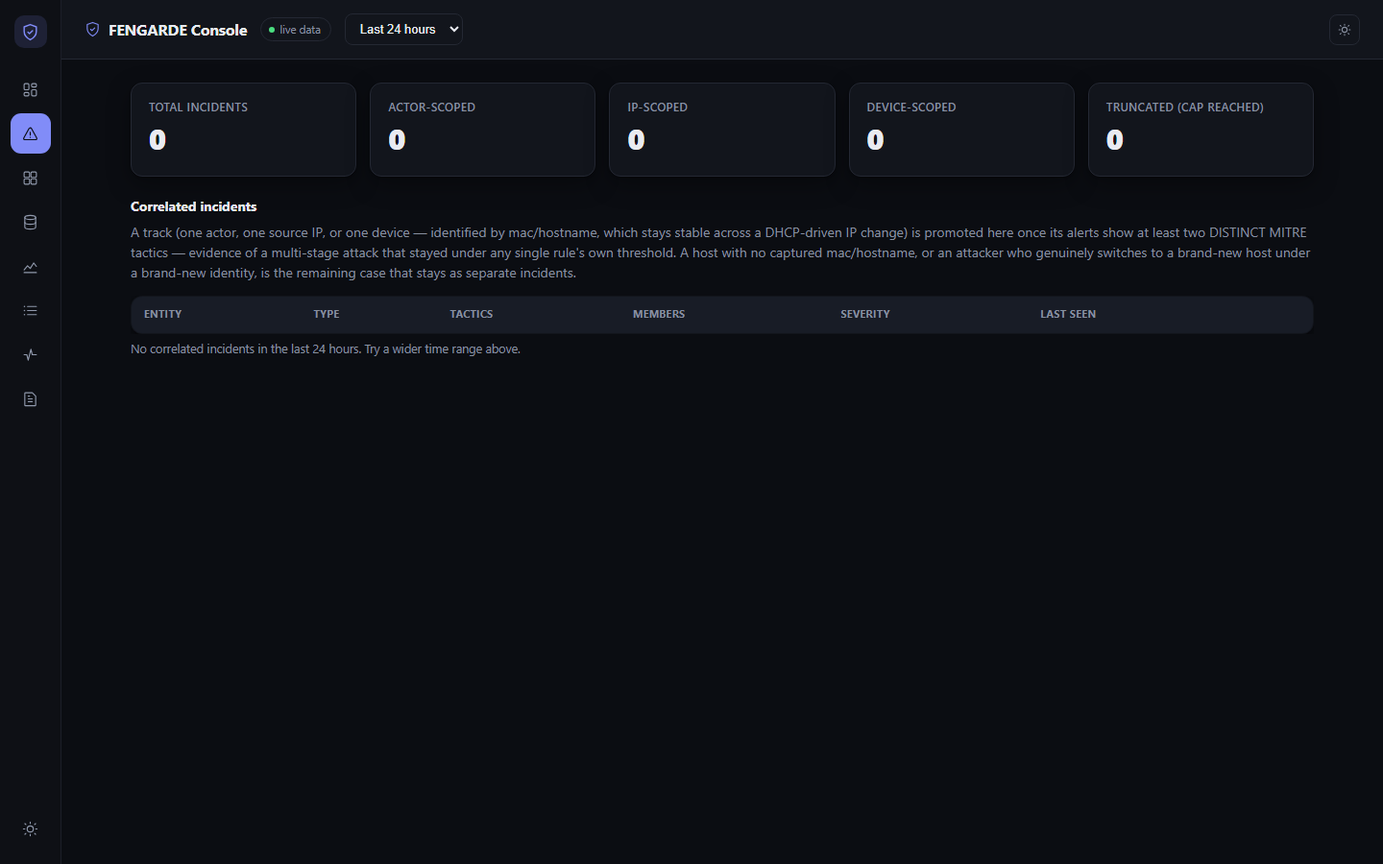
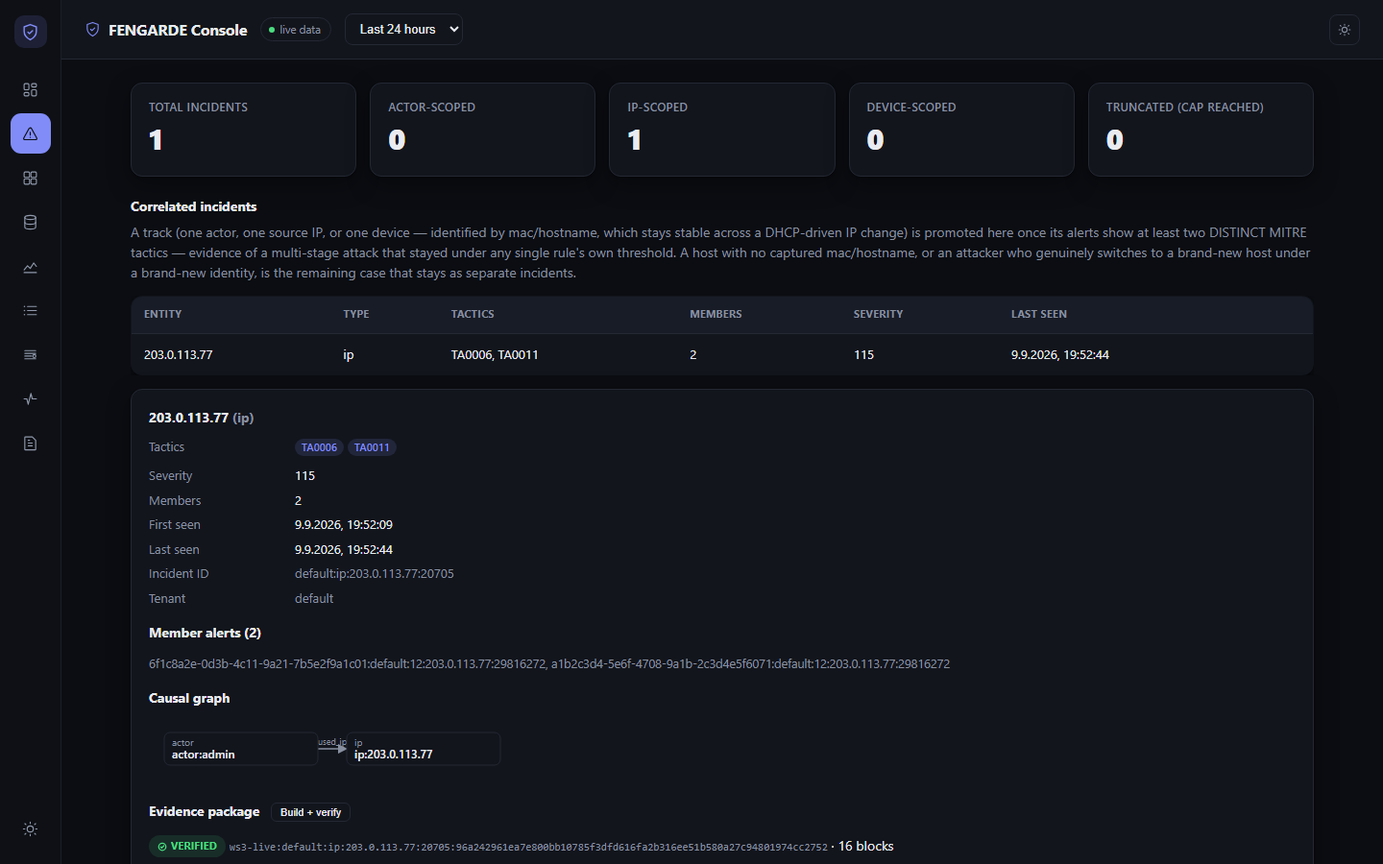
docs: close Phase 5 doc debt -- SSOT/README/CHANGELOG account + fresh live screenshots
SSOT.md had zero mention of Phase 5 (items 1-7, two code-review rounds)
despite it shipping on this branch -- added the full account to \$1/\$2.
README's architecture diagram still claimed incident.graph/entity.updates
had no consumer; "What's real" had no Phase 5 rows. CHANGELOG's
[Unreleased] was empty.

docs/index.html (GitHub Pages tour) screenshots were 2026-08-20/26,
predating 4 shipped roadmap phases. Seeded the live stack with a real
2-tactic incident (brute-force + DNS-exfil from one IP), re-captured all
8 dashboard views off it, and replaced the stale "0 correlated incidents"
empty-state shot with the real causal graph + verified evidence package --
the actual Phase 5 payoff. Updated every card's alt-text/note to match the
real numbers in the new captures, generalized one hardcoded dead-letter
count so it can't go stale the same way again, and fixed the WS-9 "not yet
surfaced in the console" line now that Phase 5 surfaces it.

diff --git a/docs/index.html b/docs/index.html
@@ -311,7 +311,7 @@ review, the verdict, DESIGN.md, and every shipping raster carrying its provenanc
       <p>This dashboard — read-only over HTTP</p></div>
     <div class="stage"><div class="no">09</div>
       <div class="stage-head"><div class="icn"><svg viewBox="0 0 24 24" fill="none" stroke="currentColor" stroke-linecap="round" stroke-linejoin="round"><circle cx="6" cy="18" r="2.4"/><circle cx="18" cy="18" r="2.4"/><circle cx="12" cy="6" r="2.4"/><path d="M12 8.4V13M8.4 16.7L10.7 14.5M15.6 16.7L13.3 14.5"/></svg></div><h3>Resolve</h3></div>
-      <p>Deterministic entity IDs off the same alert stream, alongside Correlate — not yet surfaced in the console (API/bus only today)</p></div>
+      <p>Deterministic entity IDs off the same alert stream, alongside Correlate — surfaced in the console as of Phase 5 (PR #92, unmerged): an incident's causal graph nodes carry entity type/value/label directly, and <code class="mono">GET /entities/{id}</code> serves the resolved record</p></div>
   </div>
 </section>
 
@@ -331,7 +331,7 @@ review, the verdict, DESIGN.md, and every shipping raster carrying its provenanc
         data-img="img/global.png"
         data-alt="FENGARDE Overview: stat cards, system posture, top sources, and a live alert table with MITRE tags and severity pills"
         data-tag="WS-3 · WS-4 · WS-5"
-        data-note="$ curl /api/alerts <b>&rarr; 200</b> &mdash; 50 real alerts, live pipeline connected">
+        data-note="$ curl /api/alerts <b>&rarr; 200</b> &mdash; real alerts, live pipeline connected">
         <div class="item-body">
         <div class="no">01 / Overview</div><h3>Live triage, MITRE-tagged, AI-assisted</h3>
         <p>Real alerts with real severity, a MITRE ATT&amp;CK chip pulled straight off the firing rule, and an
@@ -339,14 +339,14 @@ review, the verdict, DESIGN.md, and every shipping raster carrying its provenanc
         <span class="tag">WS-3 · WS-4 · WS-5</span>
         </div>
         <div class="mob-shot"><img loading="lazy" alt="FENGARDE Overview: stat cards, system posture, top sources, and a live alert table with MITRE tags and severity pills"></div>
-        <div class="mob-note">$ curl /api/alerts <b>→ 200</b> — 50 real alerts, live pipeline connected</div>
+        <div class="mob-note">$ curl /api/alerts <b>→ 200</b> — real alerts, live pipeline connected</div>
       </div>
 
       <div class="showcase-item"
         data-img="img/coverage.png"
-        data-alt="FENGARDE MITRE ATT&CK coverage heatmap by tactic and technique, plus a table of all 28 detection rules with sector, level, score weight, stateful, and enabled columns"
+        data-alt="FENGARDE MITRE ATT&CK coverage heatmap by tactic and technique, plus a table of all 29 detection rules with sector, level, score weight, stateful, and enabled columns"
         data-tag="WS-4"
-        data-note="28 rules loaded <b>&middot;</b> 96% carry a real technique mapping">
+        data-note="29 rules loaded <b>&middot;</b> 97% carry a real technique mapping">
         <div class="item-body">
         <div class="no">02 / Coverage</div><h3>MITRE ATT&amp;CK, measured not asserted</h3>
         <p>One cell per rule that actually carries a technique tag, shaded by real fired-alert counts. The
@@ -354,8 +354,8 @@ review, the verdict, DESIGN.md, and every shipping raster carrying its provenanc
           per tenant.</p>
         <span class="tag">WS-4</span>
         </div>
-        <div class="mob-shot"><img loading="lazy" alt="FENGARDE MITRE ATT&CK coverage heatmap by tactic and technique, plus a table of all 28 detection rules with sector, level, score weight, stateful, and enabled columns"></div>
-        <div class="mob-note">28 rules loaded <b>·</b> 96% carry a real technique mapping</div>
+        <div class="mob-shot"><img loading="lazy" alt="FENGARDE MITRE ATT&CK coverage heatmap by tactic and technique, plus a table of all 29 detection rules with sector, level, score weight, stateful, and enabled columns"></div>
+        <div class="mob-note">29 rules loaded <b>·</b> 97% carry a real technique mapping</div>
       </div>
 
       <div class="showcase-item"
@@ -375,9 +375,9 @@ review, the verdict, DESIGN.md, and every shipping raster carrying its provenanc
 
       <div class="showcase-item"
         data-img="img/events.png"
-        data-alt="FENGARDE raw event browser showing normalized OCSF events with human-readable class names like Authentication and Network Activity, plus activity, status, source, actor, and sector"
+        data-alt="FENGARDE raw event browser showing normalized OCSF DNS / HTTP Activity (4002) events from a live DNS-exfil burst, with a human-readable class name instead of a bare class_uid, plus activity, status, source, actor, and sector"
         data-tag="WS-2"
-        data-note="Authentication (3002) <b>&middot;</b> Network Activity (4001) &mdash; named, not numbered">
+        data-note="DNS / HTTP Activity (4002) <b>&middot;</b> class name, not a bare class_uid">
         <div class="item-body">
         <div class="no">04 / Events</div><h3>Every event, not just the ones that fired</h3>
         <p>The full pre-detection OCSF stream — what WS-2 actually normalized, before any rule ever saw it.
@@ -385,38 +385,38 @@ review, the verdict, DESIGN.md, and every shipping raster carrying its provenanc
           guessed.</p>
         <span class="tag">WS-2</span>
         </div>
-        <div class="mob-shot"><img loading="lazy" alt="FENGARDE raw event browser showing normalized OCSF events with human-readable class names like Authentication and Network Activity, plus activity, status, source, actor, and sector"></div>
-        <div class="mob-note">Authentication (3002) <b>·</b> Network Activity (4001) — named, not numbered</div>
+        <div class="mob-shot"><img loading="lazy" alt="FENGARDE raw event browser showing normalized OCSF DNS / HTTP Activity (4002) events from a live DNS-exfil burst, with a human-readable class name instead of a bare class_uid, plus activity, status, source, actor, and sector"></div>
+        <div class="mob-note">DNS / HTTP Activity (4002) <b>·</b> class name, not a bare class_uid</div>
       </div>
 
       <div class="showcase-item"
         data-img="img/sources.png"
-        data-alt="FENGARDE Sources view showing real event counts by parser: Linux Ssh with 99 events, Cisco Asa with 1"
+        data-alt="FENGARDE Sources view showing real event counts by parser: Dns Query with 45 events, Linux Ssh with 12, Cisco Asa with 1"
         data-tag="WS-2"
-        data-note="linux_ssh: 99 <b>&middot;</b> cisco_asa: 1 &mdash; real siem.source_type counts">
+        data-note="dns_query: 45 <b>&middot;</b> linux_ssh: 12 &mdash; real siem.source_type counts">
         <div class="item-body">
         <div class="no">05 / Sources</div><h3>Which parser actually did the work</h3>
         <p>A real per-parser event count, derived from whatever's already indexed — no separate breakdown
           endpoint exists, so this reads the same data the Events tab does and counts it honestly.</p>
         <span class="tag">WS-2</span>
         </div>
-        <div class="mob-shot"><img loading="lazy" alt="FENGARDE Sources view showing real event counts by parser: Linux Ssh with 99 events, Cisco Asa with 1"></div>
-        <div class="mob-note">linux_ssh: 99 <b>·</b> cisco_asa: 1 — real siem.source_type counts</div>
+        <div class="mob-shot"><img loading="lazy" alt="FENGARDE Sources view showing real event counts by parser: Dns Query with 45 events, Linux Ssh with 12, Cisco Asa with 1"></div>
+        <div class="mob-note">dns_query: 45 <b>·</b> linux_ssh: 12 — real siem.source_type counts</div>
       </div>
 
       <div class="showcase-item"
         data-img="img/ops.png"
-        data-alt="FENGARDE Ops view showing per-service health cards for five workstreams with real acked event counts, a dead-letter depth of 24 on WS-2, and correlator track counts"
+        data-alt="FENGARDE Ops view showing per-service health cards for WS-1 through WS-3, WS-4/5/8, with real acked event counts, a dead-letter depth on WS-2's raw.events, and WS-8 correlator active-track/promotion counts"
         data-tag="WS-1 · 2 · 3 · 4 · 8"
-        data-note="raw.events.deadletter_depth <b>&rarr; 24</b> &mdash; shown, not swept under the rug">
+        data-note="raw.events.deadletter_depth <b>&rarr; 8</b> &mdash; shown, not swept under the rug">
         <div class="item-body">
         <div class="no">06 / Ops</div><h3>Health, including the parts that aren't healthy</h3>
         <p>Per-topic acked/failed/dead-lettered counts read live off every workstream's own metrics endpoint.
-          Nothing is hidden — including a real 24-message backlog sitting in one service's dead-letter queue.</p>
+          Nothing is hidden — including a real dead-letter backlog sitting in one service's queue.</p>
         <span class="tag">WS-1 · 2 · 3 · 4 · 8</span>
         </div>
-        <div class="mob-shot"><img loading="lazy" alt="FENGARDE Ops view showing per-service health cards for five workstreams with real acked event counts, a dead-letter depth of 24 on WS-2, and correlator track counts"></div>
-        <div class="mob-note">raw.events.deadletter_depth <b>→ 24</b> — shown, not swept under the rug</div>
+        <div class="mob-shot"><img loading="lazy" alt="FENGARDE Ops view showing per-service health cards for WS-1 through WS-3, WS-4/5/8, with real acked event counts, a dead-letter depth on WS-2's raw.events, and WS-8 correlator active-track/promotion counts"></div>
+        <div class="mob-note">raw.events.deadletter_depth <b>→ 8</b> — shown, not swept under the rug</div>
       </div>
 
       <div class="showcase-item"
@@ -438,18 +438,21 @@ review, the verdict, DESIGN.md, and every shipping raster carrying its provenanc
 
       <div class="showcase-item"
         data-img="img/incidents.png"
-        data-alt="FENGARDE Incidents view with zero correlated incidents and an honest empty-state message explaining why, rather than a blank table"
-        data-tag="WS-8"
-        data-note="0 incidents <b>&middot;</b> the honest answer, not a hidden failure">
+        data-alt="FENGARDE incident detail for a real ip-scoped incident spanning two MITRE tactics, showing its causal graph (actor:admin used_ip ip:203.0.113.77) and a verified 16-block evidence package"
+        data-tag="WS-8 · 3 · 9"
+        data-note="2 tactics, 1 incident <b>&middot;</b> causal graph + verified evidence, both real">
         <div class="item-body">
         <div class="no">08 / Incidents</div><h3>Multi-stage attacks, correlated across alerts</h3>
         <p>A single actor, IP, or device that crosses two distinct MITRE tactics gets promoted from N separate
           alerts into one incident — evidence of an attack that stayed under any single rule's own threshold.
-          Empty here on purpose: no attacker in this run ever crossed that bar.</p>
-        <span class="tag">WS-8</span>
+          This run: a brute-force burst (TA0006) and a DNS-exfil burst (TA0011) from one IP, merged. Phase 5
+          (PR #92) adds the causal graph — a real DAG edge derived from the two alerts' own MITRE tags, not a
+          fabricated line — and a build-on-click evidence package: a Merkle hash-chain over the incident's
+          alerts/events, verified before it ever renders <code class="mono">VERIFIED</code>.</p>
+        <span class="tag">WS-8 · 3 · 9</span>
         </div>
-        <div class="mob-shot"><img loading="lazy" alt="FENGARDE Incidents view with zero correlated incidents and an honest empty-state message explaining why, rather than a blank table"></div>
-        <div class="mob-note">0 incidents <b>·</b> the honest answer, not a hidden failure</div>
+        <div class="mob-shot"><img loading="lazy" alt="FENGARDE incident detail for a real ip-scoped incident spanning two MITRE tactics, showing its causal graph (actor:admin used_ip ip:203.0.113.77) and a verified 16-block evidence package"></div>
+        <div class="mob-note">2 tactics, 1 incident <b>·</b> causal graph + verified evidence, both real</div>
       </div>
     </div>
 

diff --git a/SSOT.md b/SSOT.md
@@ -14,6 +14,7 @@ Update this file whenever status changes; it's a living index, not an archive.
 
 | Fact | Value |
 |---|---|
+| **Phase 5 — analyst read path for the entity/causal/evidence plane, items 1-7 SHIPPED to `feat/phase-4` (2026-09-04/05), PR #92 OPEN not yet merged** | Closes the gap the v0.7.0-v0.10.0 tag row below documents honestly: WS-8's `incident.graph` v2 and WS-9's `entity.updates` were **produced since Phase 2/3 with zero consumers** — WS-3 only reaper-trimmed the streams, no storage, no read route, no dashboard surface. **Item 1-2**: `services/ws3-indexer` now persists both to flat last-write-wins indices (`entities`/`incident-graphs`, tenant-suffixed — each republish carries full current state, not a delta, unlike the day-bucketed alert/event indices) and serves `GET /entities/{id}`, `GET /incidents/{id}/graph`, `GET /incidents/{id}/evidence` (the latter is `evidence_package.py`'s (WP-3-B) first real HTTP consumer — built the package on demand, runs `verify_evidence_package()` **before** any 200, a failure is 409 with reasons, never a silent unverified serve); all three tenant-gated. **Item 3**: `services/ws7-dashboard` incident detail now renders the causal DAG as a from-scratch layered-layout SVG (no chart library — depth = 1 + max(predecessor depth), defensively iteration-capped against a malformed/cyclic graph) and an evidence panel (build-on-click, distinguishes verified/tampered-409/unavailable) alongside the existing member-alert list, not replacing it — closing the exact "not yet surfaced in the console" gap `docs/index.html`'s WS-9 card used to name honestly. **Item 4**: the dashboard's asset drill-in now calls the long-dead `GET /assets/{mac}` contract route (existed, never wired) instead of only ever rendering the possibly-stale `/assets?limit=200` list snapshot — shows the list snapshot immediately (no blank flash), refreshes to the live single-device read, visibly labels which one is on screen. **Item 5**: WS-4 detection now actually reads `contracts/ot-points/*.yml`'s `points[].criticality` (shipped 2026-08-28, explicitly noted then as "no parser, rule, or loader reads this block today") into the exposure-scoring block `contracts/scoring.yaml` had scaffolded inert since WP-2-F — only `asset_criticality` is wired (`internet_exposure`/`tenant_tier` stay inert, no config source exists for either yet, documented explicitly so `enabled: true` isn't misread as activating all three). **Item 6**: `tools/generate_trend_viewer.py` renders `eval/trend.jsonl`'s real nightly rows (detection-quality + AI-to-OT twin scorecard, newest-first) into a committed static `eval/trend_viewer.html` — the internal viewer the roadmap's item 6 asked for; the public benchmark-artifact track (roadmap item 8) is explicitly out of scope here. **Item 7**: a genuinely separate incident-level NIS2 draft seam — `report_id: "{incident_id}:incident-report"`, never `to_reporting_payload()` (that seam stays deliberately alert-scoped per its own frozen contract) — `nis2_template.py` orders the causal narrative by `incident.graph`'s own edge `ts_ms`, joining each edge back to the alert that evidenced it via `event_id`, falling back to alert-arrival order only when no graph exists; same never-fabricate `[ANALYST MUST PROVIDE]` discipline as the alert-level template. **Verification, every item**: `bash run_all_tests.sh` ALL TESTS PASS, ruff clean, mypy clean; items 3/4's dashboard claims and item 3's nginx sub-path routing were browser/live-verified, not just reasoned about (real SVG rendered from a real 3-node/2-edge graph, real nginx:alpine `-t` syntax check, not assumed). **Code review, round-tripped twice**: `/code-review high` found 10 issues (fixed, `7142370`) — a real WS-4 co-firing scoring bug (`exposure_gate` on one rule alongside an ungated rule with the same weight/level fully hid the ungated rule's exposure score instead of only excluding the gated one), an async dashboard state race (a fast incident-deselect-reselect after an in-flight `getIncidentGraph()` could render the wrong incident's graph), `find_alerts()` missing from the storage-adapter interface, a stale `contracts/opensearch-mappings/reports.json` missing the new incident-report fields, and 6 more; `/code-review max` found 3 more (fixed, `b457ef2`) — `MemoryStore.find_alerts()` didn't dedup an id landing in two daily buckets, `OpenSearchStore.find_alerts()`'s dedup-to-newest ordering was unverified against this codebase's actual write patterns (verified NOT reachable given `main.py`'s drift-check-and-skip logic), and the same co-firing scoring formula needed a second, more general fix for a **mixed** gated+ungated co-fire (previous fix only handled the uniform case). A round-3 CI-only mypy `no-redef` failure (`cddebfb`, caught by Autofix, not local `mypy <file>` — CI's whole-package `mypy tools --explicit-package-bases` scope a single-file local run doesn't reproduce) is fixed and pushed. **PR #92 status**: all 32 CI checks pass; `reviewDecision: REVIEW_REQUIRED`, `mergeStateStatus: BLOCKED` — this repo's branch-protection requires 1 approving review and GitHub refuses self-approval from the PR's own author, same gate every prior PR on this repo (#79, #81, ...) has hit; owner review/merge is the only remaining step. **Self-caught doc debt, closed in this same pass**: this row itself didn't exist until now — `SSOT.md` had zero mentions of Phase 5 despite 7 shipped items and 2 review rounds landing on this branch; `README.md`'s architecture diagram still said `incident.graph`/`entity.updates` were "produced, no consumer wired yet"/"self-consumed only today" (both now false as of item 1-2) and its "What's real" table had no Phase 5 rows at all; the `docs/index.html` GitHub Pages tour's screenshots and WS-9 "not yet surfaced" copy predated all of Phase 2 through Phase 5. Fixed in the same pass — see the rows immediately below and README/docs/index.html's own history. |
 | `v0.7.0`-`v0.10.0` TAGGED (2026-09-04) — one tag per shipped roadmap phase since `v0.6.0`, closing the same "no release boundary" gap that motivated `v0.6.0` | Owner asked for tags marking each completed phase. Cut on the real phase-completion merge commits (not HEAD): `v0.7.0`=`61ec767` (Phase 0+1), `v0.8.0`=`0198134` (Phase 2), `v0.9.0`=`c0d7c2e` (Phase 3), `v0.9.1`=`0512041` (Phase 3.5), `v0.10.0`=`e68fa2d` (Phase 4). Pushed; `release.yml` did not auto-fire for any of them despite matching `tags: ["v*"]` — verified live on GitHub's own Actions page ("no runs yet"), root cause not isolated (token has `workflow` scope, no tag-protection/rulesets block it). Added a `workflow_dispatch` fallback to `release.yml` so a release can still be cut on demand, and fixed a real gap found while reading that file: the Docker image-build list never gained `ws9-resolver` when Phase 2 added it as the 9th workstream — every release build since would have silently shipped 8 of 9 images. `CHANGELOG.md`'s single `[Unreleased]` block (everything since `v0.6.0`) split into the matching 5 version sections, content verified byte-identical (sorted diff) before the split, not just re-typed. See PR #92. |
 | **Phase 4 — adversarial system-level validation, WP-4-A SHIPPED (2026-09-03, branch `feat/phase-4`, built on Phase 3.5/PR #90)** | `eval/adversarial/` — the three-layer mutation engine the forward-roadmap's Phase 4 specifies. **Layer A (deterministic + BLOCKING)** — `mutate.py` (8 composable axes — prompt/tool/identity/credential/timing/network/protocol/telemetry, 36 catalogue entries incl. 3 cross-axis compositions, same-seed → byte-identical catalogue/variants) + `layer_a.py` (every mutation replayed through the REAL WS-2→WS-4→WS-8 path and graded on the roadmap's three criteria: detection retained **and** chain fidelity retained **and** FCR unchanged; a mutation that keeps the alert but breaks the causal join is recorded `causal_join_broken` and counts AGAINST robustness — never folded into a pass). **Measured (seed 7, harness-measured): `mutation_robustness = 0.6111` (22/36 pass)**; per-axis: identity 1.0 / timing 1.0 / network 0.75 / protocol 0.667 / tool 0.667 / credential 0.5 / telemetry 0.5 / composition 0.333 / **prompt 0.4 — six of ten prompt evasions (whitespace, Cyrillic homoglyphs, equivalent phrasing, language switch, URL-encode, base64-wrap) defeat the bounded ASCII injection regex: a REAL, measured coverage gap, exactly what Phase 4 exists to surface**. `segment_ips` (and comp-3 `actor_split+segment_ips`) is the loader-bearing causal-join-break constructor: detection retained, fidelity 0.6→0.2, FCR 1.0→0.5, graded FAILURE — the roadmap verify's "a mutation preserving the alert but breaking the causal join reported as a failure". Acceptance `test_layer_a.py` proves determinism byte-identically across two full runs, sensitivity both ways, the join-break-not-pass rule, and the **weakened-rule drop** (a never-matching copy of `agent_prompt_injection_indicator.yml` stops firing while stock fires — the lane is sensitive to rule weakening). **Layer B (curated corpus, deterministic)** — `corpus_b.py`: 8 curated adversarial cases replayed through the real path; all 6 hard positives fired their expected rules (plain/delimited injection, destructive, credential scan, egress, unauthorized Modbus write), 1 documented homoglyph evasion reported not hidden, 1 no-URL negative control stayed silent; the WS-8 leg feeds all alerts into ONE real Correlator and asserts the deliberate shared-attacker merge (c06+c07) happens while NO incident spans two corpus groups. **Layer C (nightly adaptive LLM adversary, NEVER blocking)** — `adversary_c.py` + `.github/workflows/nightly-adversary.yml`: composes cross-axis mutations via the real local LLM (`llm_adapter`), grades each through Layer A's real grader, records seed+producer+cases for reproducibility; deterministic `--dry-run` stub when no Ollama; stochastic output is kept OUT of the blocking gate by construction (the workflow never fails on grades). **Scorecard wiring** — `eval/twin/report.py` `mutation_robustness` now reads the deterministic `matrix.latest.json` artifact (gitignored, same convention as `report.latest.json`) with per-axis context + documented null-reason when the lane hasn't run. **Also fixed while landing this**: `report._incident_membership_grade`'s early-return omitted `cross_step_rule_co_location` → a mutation that legitimately killed all detection KeyError'd the WHOLE grade path (the exact interesting case). Gate: `run_all_tests.sh` stanzas added (mutate selfcheck → Layer A matrix → Layer B corpus → Layer A acceptance, ordered BEFORE the twin scorecard smoke so `mutation_robustness` populates); `make adversarial` target; `ruff check` clean on touched files. Full gate re-run **ALL TESTS PASS** exit 0. |
 | **Phase 3.5 — operational outcome metrics on the twin, WP-3.5-A SHIPPED (2026-09-03, PR #90 on `feat/phase-3.5`, after Phase 3/PR #89 merged `c0d7c2e`)** | `eval/twin/report.py` now measures the roadmap's Phase 3.5 metric set on the REAL WS-8 artifacts, all `basis: harness-measured` (WP-1-G `baseline.json` stays frozen; `delta_vs_baseline` reports n/a for the previously-null keys — the honest encoding of "null before, real now"): **alert_reduction_ratio = 0.7143** (7 raw WS-4 alerts → 2 WS-8 incidents — 71% of raw alert volume absorbed by correlation); **false_correlation_rate = 1.0** (2/2 oracle-DECLARED forbidden relationships, `allowed: false` in `oracle.yaml`, joined by a real v2 graph edge — the honest signal that the entity-presence join cannot discriminate direction; reported raw with `forbidden_denominator` + per-pair breakdown, never hidden); **incident_reconstruction_time_ms ≈ 0.8–5.9** (REAL wall-clock to build the REAL WS-3 evidence package from the chain's real incident/alerts/events/graph — 14 blocks, hash-chain `verified: true`; wall-clock is machine-load dependent and informational, the same carve-out `date` enjoys — the committed `report.json` records 0.7687 ms as of the 2026-09-03 review-fix regeneration below (was 5.9224 ms at original ship — expected to differ run-to-run, per the field's own carve-out); `package_id`/`block_count` are deterministic, asserted separately); **mtti = 360.0 s** (scripted analyst walk over the REAL incident graph: open + 7 members + 2 entities + 1 edge + assemble = 12 steps × the documented 30 s/step model — step counts are the measured quantity; seconds is the documented conversion until a design partner supplies wall-clock); **severity confusion matrix** = 6 correct / 0 over / 0 under / 1 unexpected (the fired rule the oracle does not declare at its step, surfaced not folded). **MTTR stays an honest null** with `context.mttr_null_reason` — the twin harness has no remediation/closure event (no triage-API status transition is replayed; incidents never close in the sim), and the roadmap's own MTTR cell requires "triage-API status transitions on real replays", a live-replay measure a twin cannot fabricate. Mutation-sound acceptance test `eval/twin/test_phase3_5.py` (independent references + 2 mutation probes: neutered forbidden-denominator → FCR disagrees; forced verifier failure → `verified` flips False) wired into `run_all_tests.sh`; WP-3-C `test_chain_fidelity.py` untouched apart from the documented wall-clock carve-out in its (d) determinism check. Gate: `run_all_tests.sh` **ALL TESTS PASS** exit 0; ruff clean on touched files. Cross-repo note in `fengarde-sec/docs/STATUS.md` §0. **Independent-review fix round (2026-09-03)**: a fresh-session code review of this package found and fixed 14 defects — `_investigation_walk` was scoped to the UNION of every promoted incident's graph edges instead of the one picked incident's own graph (now shares a `_pick_full_coverage_incident` helper with `_evidence_reconstruction` and reads that incident's real `nodes`/`edges`); `_evidence_reconstruction`'s `events` list wasn't filtered to the picked incident's `member_alert_ids` (unlike its `alerts` list); `alert_reduction_ratio` had a falsy-zero bug nulling a well-defined `1.0` whenever zero incidents promoted (now denominated on the same canonical `alerts_total` `context.alert_count` uses, closing a two-independently-sourced-counts drift risk too); `_LEVEL_RANK` silently ranked an unrecognized severity level as informational instead of flagging it (`unrecognized-level` verdict added); the forbidden-relationship denominator checked only the to-step despite its comment claiming both-steps parity with the allowed loop (now actually both); two of `test_phase3_5.py`'s six checks weren't independent of the function under test (now cross-check against `incident_summary`/`incident_reconstruction`/top-level `context.alert_count`) and a brittle hardcoded `0.7143` was removed from check (a)'s pass/fail; `api_round_trips` and the severity `matrix` breakdown were untested (now asserted); plus a redundant incident-graph refetch+deepcopy, a hand-rolled median swapped for `statistics.median`, a stale docstring, and literal backslashes in `oracle.yaml`'s block-scalar text. None of the fixes changed seed 7's harness-measured numbers (chain_fidelity/false_correlation_rate/alert_reduction_ratio/mtti/severity tally all byte-identical) — only the informational wall-clock reconstruction time differs, as it always does run-to-run. `run_all_tests.sh` **ALL TESTS PASS** exit 0 after the fix. |
@@ -149,6 +150,11 @@ those words get reused loosely across specs written weeks apart.
 | F1-F6 adversarial bug-hunt fixes (`6e3fbe4`) actually close the described holes | **Proven, zero-infra** | Each fix's regression test independently confirmed via `git apply -R`-then-run-then-restore against the fix's own diff: every test genuinely fails without its fix and passes with it restored (not just "passes today"). Full suite + ruff clean with all six applied together. Not yet run against a live Docker/Redis/OpenSearch stack — same standing zero-infra-only caveat as the rest of this table. |
 | Cross-alert correlation (a low-and-slow multi-stage attacker who paces each technique under its own rule's threshold gets ONE aggregated "incident," not 27 isolated tripwires) | **Shipped + Proven live (2026-08-18, WS-8); pivot-correlation closed 2026-08-19** | See §1's dedicated WS-8 row for the full account: new `services/ws8-correlation`, per-entity (never-merged) tracks promoted on ≥2 distinct MITRE tactics, live-verified end-to-end on Docker Desktop (a real `incidents-*` document with both member alerts and both tactics; a positive IP-track control; a live negative check confirming an allowlisted shared-infrastructure IP produces no incident). Superseded the design-only status this row carried since the 2026-07-29 audit. **Pivot-correlation (2026-08-19)**: a third `device:{mac-or-hostname}` track closes the "actor moving to a new IP" case that's actually evidenced without inference (see §1's 2026-08-19 row) — an authenticated actor pivoting IP was already correlated via the pre-existing `actor:` track (no IP in its key); the residual gap was activity with no captured actor identity, now closed for hosts whose mac/hostname is parser-populated. Zero-infra proven (3 new contract scenarios + 1 sensitivity check). The narrower residual (no mac/hostname captured at all, or a genuine switch to a brand-new physical host under a brand-new identity) remains a deliberate, named accepted limitation — not silently claimed closed. **Historical framing kept for context (2026-07-29 audit, before this shipped):** the adversarial design review correctly identified this as the top remaining detection-architecture gap: every rule evaluates independently against its own window, `Scorer.score()` only combines rules matching the SAME event, and nothing accumulates risk for one actor/asset across a longer horizon (hours-to-days). Building that for real — a second-pass consumer reading the `alerts` topic, a new rolling-risk window keyed by actor/asset over hours-to-days, a new "incident" alert shape, its own scoring model, dashboard surface, and test suite — is a genuine multi-day feature, not a safe same-pass fix; rushing it risks exactly the kind of new correlation-window bug (wrong horizon, unbounded state growth, false-merged incidents) this project's own fail-closed philosophy exists to avoid. **Safe scoped improvement shipped instead**: `list_alerts()` (`services/ws3-indexer/storage/{memory,opensearch}.py`, wired through `GET /api/v1/alerts?actor=&src_ip=`) now supports exact-match filtering by `actor.user.name`/`src_endpoint.ip` across tenants and the full retention window, so an analyst CAN pull every alert for one actor/IP across time today — the manual version of the query a future automated aggregator would run itself. Tested zero-infra (`test_list_alerts_correlation.py`, `test_api_v1.py::test_list_alerts_actor_src_ip_filters`); backward compatible (new kwargs, only sent when actually requested, so a pre-existing `StorageAdapter` subclass with the old 3-parameter signature is unaffected). The full aggregation engine remains open — treat it as the next roadmap item, per the review's own recommendation, ahead of adding more atomic rules. **Scoped (design only, no code) 2026-08-05**: `fengarde-sec/docs/2026-08-05-cross-alert-correlation-scope.md` — proposed shape (reuse `window.py`'s primitive with a longer horizon, a new `incidents-*` index, additive-field discipline) and the 5 failure modes any implementation must cover (false-merge on NAT/DHCP reuse, tenant isolation, unbounded state growth, chief among them). Kept out of this repo's own `docs/superpowers/specs/` per the 2026-07-31 public-doc-policy `.gitignore` rule (a forward-looking roadmap scope, not a keep-public decision-rationale doc) — same category as the HA design doc, same repo it now lives in. |
 | 2026-08-06 hardening pass (PR #54) — feature/behavior claims, zero-infra-or-one-container proven | **Proven (zero-infra) + a few one-container live checks; the failover-dependent items remain CLAIM until a live kill-test** | See `docs/reviews/implementation_report_2026-08-06.md` §Phase 5 for the review that found the regressions below and `983efc7`/PR #54 for the fixes. Concretely: **(a)** HA `BUS_BACKEND=redis-sentinel` now wires the distributed window counter (and `Sentinel.master_for()` re-resolves the current master on reconnect — ~~**code-correct, not re-proven by a live primary-kill in this pass**; the earlier live failover proof was on the bus layer only~~ **PROVEN LIVE 2026-08-11**: `make ha-verify` → `tools/sentinel_failover_live.py` drives `services/ws4-detection/test_window_sentinel_failover_live.py`, which builds the counter client exactly as `main()`'s HA branch does and holds ONE `master_for()` client across a real `docker kill` of the primary. That single-client lifetime is the point — the defect class is a client pinned to a demoted master that answers `READONLY` forever while health checks stay green, and a fresh client built after the failover would resolve the new master trivially and prove nothing. Live result: master moved 172.28.0.11 → 172.28.0.12, the long-lived client followed the promotion, and the pre-failover window state survived (count 5 → 6, asserted as a VALUE — a promoted replica that had not replicated the window would answer writes happily while having silently lost the count)); **(b)** Redis sessions are HMAC-signed and the `redis` backend fails loud without `FENGARDE_SESSION_SECRET` — **live-verified against a real Redis container** (ctor-refuses-without-secret, signed-row-resolves, unsigned-row-rejected, two-clients-share-secret); **(c)** `FENGARDE_REQUIRE_AUTH` refuses boot with an incomplete auth surface; **(d)** MFA/TOTP is opt-in per-user and login gates on `totp_code` when active — **backward-compatible when disabled**; enable/verify require the acting user's current password (reauth) — ~~**flow tested zero-infra, not a live browser/login e2e**~~ **PROVEN LIVE 2026-08-11, and it found a production defect the zero-infra tests could not see.** `services/ws3-indexer/test_mfa_live_e2e.py` drives real HTTP against the deployed handler inside the ws3 container: login → `/auth/mfa/enable` → `/auth/mfa/verify` → password-only login REFUSED → wrong code refused → password+code accepted. **The defect:** `shared/users.py` reached the TOTP primitive by walking `parent.parent / "ws6-inventory"`, which resolves in a source checkout but NOT in any deployed image — ws3-indexer's Dockerfile copies `services/shared`, never `ws6-inventory`. The import failed, the `except` silently set `_TOTP_AVAILABLE = False`, and in the shipped container `provision_totp()` raised while `verify_totp()` rejected EVERY code. MFA was **inert in production while green in CI**, because in a checkout the path resolves fine. Fixed by moving the primitive to `services/shared/mfa.py` (ws6 never imported it — its own INTERFACE.md said "hosted here, NOT wired into this service's own auth"), and the degrade is no longer silent: it now emits a `RuntimeWarning` naming the consequence. The e2e treats `_TOTP_AVAILABLE == False` as a FAILURE, never a skip, so this cannot regress quietly again; **(e)** OpenSearch write-failover round-robins across a comma-separated `OPENSEARCH_URL` and the HA profile now points ws3 at all 3 nodes — ~~**node-rotation unit-tested, node-death failover not re-run live**~~ **node-death failover PROVEN LIVE 2026-08-11**: `services/ws3-indexer/storage/test_opensearch_ha_failover_live.py` against the real 3-node HA cluster — baseline write, `docker kill siem-store-ha-1`, confirmed the node stopped answering, post-kill write succeeded via round-robin to a survivor, node restored. Run with `OPENSEARCH_URL` naming all 3 nodes (host-published as 9201/9202/9203 under the HA profile); **(f)** the E1 audit log records login/triage/report and is admin-scoped, append-only, capacity-capped, fail-open — **zero-infra tested**; **(g)** the UDP syslog deterministic_id regression was reverted (FIX 21 — window-counter member-dedup had silently under-counted N repeated identical lines); **(h)** per-source syslog `/metrics`, dashboard saved-searches/dark-mode/lifecycle, 6-parser timeutil migration, CI gates (live-Redis session+window jobs, OpenSearch CI job, devkit-feeder pip-audit/SBOM coverage, Dockerfile `pip install` fail-closed) — all zero-infra tested. Full `run_all_tests.sh` + ruff + mypy green at merge. |
+| Phase 5 read-plane routes (`GET /entities/{id}`, `GET /incidents/{id}/graph`, `GET /incidents/{id}/evidence`) actually serve real persisted state, tenant-isolated, evidence verify-before-serve | **Proven (zero-infra), shipped 2026-09-04, PR #92 (not yet merged)** | `services/ws3-indexer/test_phase5_read_path.py` (wired). `router.py` recognizes `incident.graph`/`entity.updates` payloads by shape and routes them to flat last-write-wins indices; `main.py` added both to the real consumed `TOPICS` list (were reaper-only before). The evidence route mutation-verifies its own 409: forcing `verify_evidence_package()` to fail returns 409 with real reasons, restoring it returns 200 again — never a silently-unverified serve. Cross-tenant 404s confirmed live (a different-tenant RBAC session cannot fetch another tenant's entity/graph/evidence). `test_route_decomposition.py`'s frozen pre-refactor baseline stays untouched; new routes checked via a separate `ROUTES_ADDED_SINCE_REFACTOR` list so the historical-proof test can't be defeated by growing it. |
+| Dashboard incident detail renders the real causal DAG + evidence package, not a flat id list | **Proven (browser-verified live), shipped 2026-09-04, PR #92 (not yet merged)** | `services/ws7-dashboard/index.html` + `test_phase5_incident_graph_evidence.py`. `renderCausalGraphSvg()` is a from-scratch layered-DAG layout (depth = 1 + max(predecessor depth), no chart library, iteration-capped against a malformed/cyclic graph) — live-verified against a real 3-node/2-edge graph rendering the right box/edge-label counts. Evidence panel is build-on-click (not fetched per list row) and live-verified in all three states (verified w/ package_id + block count, tampered/409 w/ real failure reasons, unavailable). New nginx `location /api/incidents/` and `/api/entities/` prefix blocks were syntax-checked against the real `nginx:alpine` entrypoint (`nginx -t`), not assumed correct — and were built as new prefix blocks specifically because the existing `/api/incidents` block is an exact-match list route that adding sub-paths to would have broken. |
+| Dashboard asset drill-in reads the live single-device record, not just the possibly-stale list snapshot | **Proven (browser-verified live), shipped 2026-09-04, PR #92 (not yet merged)** | `services/ws7-dashboard/index.html` + `test_phase5_asset_detail.py`. `GET /assets/{mac}` existed as an unwired WS-6 contract route since before this dashboard file did; `showAsset()` now renders the `/assets?limit=200` snapshot immediately (no blank/loading flash), then replaces it with the live single-device read once resolved, falling back to the snapshot — never blanking — on failure; the panel visibly labels which one is on screen. Live-verified both paths in a real browser (unreachable API → "list snapshot" badge with the original row data kept; a fresh mocked single-device response → "live device record" badge with fresh data), zero console errors either way. |
+| OT-criticality `exposure` scoring (`contracts/scoring.yaml`, scaffolded inert since WP-2-F) is actually wired to a real signal | **Proven (zero-infra), shipped 2026-09-04, PR #92 (not yet merged)** | `services/ws4-detection/scoring.py::load_ot_criticality()` + `test_exposure_scoring.py`. Reads every `contracts/ot-points/<device-id>.yml`'s `points[].criticality` (distinguished from `README.md`/`writer-categories.yml` by shape, not filename; a malformed file warns and is skipped, never crashes detection) into a `{wire_address: criticality}` table `Scorer` loads once. Only `asset_criticality` is wired — `internet_exposure`/`tenant_tier` stay inert by explicit documented design, since no network-topology or tenant-tier config source exists anywhere in this repo yet, so `enabled: true` can't be misread as activating all three. Mutation-verified: a real ot-points sample address (`40001`, `criticality: high`) scores exactly 10 points higher than an address no ot-points file mentions, on both `score()` and `routing_score()`; forcing `enabled=False` on the same scorer collapses the gap back to zero. **Independent-review-found regression, fixed same PR**: the original single-rule fix fully hid an ungated rule's exposure score whenever it co-fired alongside any gated rule of the same weight/level (round-1 finding); the general co-firing case (mixed gated+ungated) needed a second, broader fix (round-2 finding) — see the Phase 5 row in §1 for both review rounds. |
+| Incident-level NIS2 draft (`POST /incidents/{id}/report`) is a genuinely separate seam from the alert-scoped one, not a collapse of it | **Proven (zero-infra), shipped 2026-09-04, PR #92 (not yet merged)** | `services/ws3-indexer/nis2_template.py::build_incident_report()` + `test_phase5_read_path.py`. Deliberately does NOT go through `evidence_package.py::to_reporting_payload()`, which collapses a package to its `primary_alert_id` by design (that seam is alert-scoped, frozen, a real cross-repo schema `fengarde-sec`'s paid backend also implements) — reads the evidence package's raw blocks directly instead. `report_id: "{incident_id}:incident-report"` proven never to collide with the alert-scoped route's `"{alert_id}:report"` even when the raw id is shared between an alert and an incident (tested). The causal-order claim is proven directly, not asserted: two alerts seeded with `time` fields in the OPPOSITE order their graph edges' `ts_ms` implies, and the rendered report's timeline is confirmed (by string position in the real markdown body) to follow the edges, not arrival order; falls back to alert-arrival order only when no graph exists. Same never-fabricate `[ANALYST MUST PROVIDE]` discipline as the alert-level template; a causal claim the graph doesn't make renders as "no typed causal relationship," never invented. 409 verify-before-serve mutation-verified (force+restore), matching the evidence route's own discipline. |
 
 ## 3. Doc index — what each file is for, and its trust level
 

diff --git a/CHANGELOG.md b/CHANGELOG.md
@@ -7,6 +7,16 @@ and this project adheres to [Semantic Versioning](https://semver.org/spec/v2.0.0
 
 ## [Unreleased]
 
+### Added (2026-09-04/05, Phase 5 — analyst read path for the entity/causal/evidence plane, PR #92 on `feat/phase-4`, not yet merged)
+
+- WS-3 persists `incident.graph` and `entity.updates` (produced since Phase 2/3, previously reaper-trimmed with no storage or read route) and serves `GET /entities/{id}`, `GET /incidents/{id}/graph`, `GET /incidents/{id}/evidence` (the latter builds `evidence_package.py`'s package on demand and verifies it before any 200 — a failure is 409, never a silent unverified serve), all tenant-gated.
+- Dashboard incident detail renders WS-8's typed causal DAG as a from-scratch layered SVG (no chart library) and a build-on-click evidence panel (verified / tampered-409 / unavailable states), alongside the existing member-alert list.
+- Dashboard asset drill-in now calls the previously-unwired `GET /assets/{mac}` for the live single-device record instead of only the possibly-stale list snapshot.
+- WS-4 detection wires `contracts/ot-points/*.yml`'s `points[].criticality` into the exposure-scoring block (`contracts/scoring.yaml`, scaffolded inert since WP-2-F) — only `asset_criticality` is wired; `internet_exposure`/`tenant_tier` stay explicitly inert.
+- A genuinely separate incident-level NIS2 draft seam: `POST /incidents/{id}/report` (`report_id: "{incident_id}:incident-report"`, never collides with the alert-scoped `"{alert_id}:report"`), causal narrative ordered by the graph's own edge timestamps.
+- `tools/generate_trend_viewer.py` renders `eval/trend.jsonl`'s real nightly rows into a static `eval/trend_viewer.html`.
+- Two code-review rounds (`/code-review high` then `/code-review max`) found and fixed 13 issues total, including a WS-4 co-firing scoring bug (an `exposure_gate`-off rule co-firing with a same-weight/level ungated rule fully hid the ungated rule's exposure score) and a dashboard async state race on fast incident deselect/reselect. See `SSOT.md` §1's Phase 5 row for the full account.
+
 ## [0.10.0] - 2026-09-04
 
 ### Added (2026-09-03, Phase 4 — WP-4-A adversarial system-level validation)
